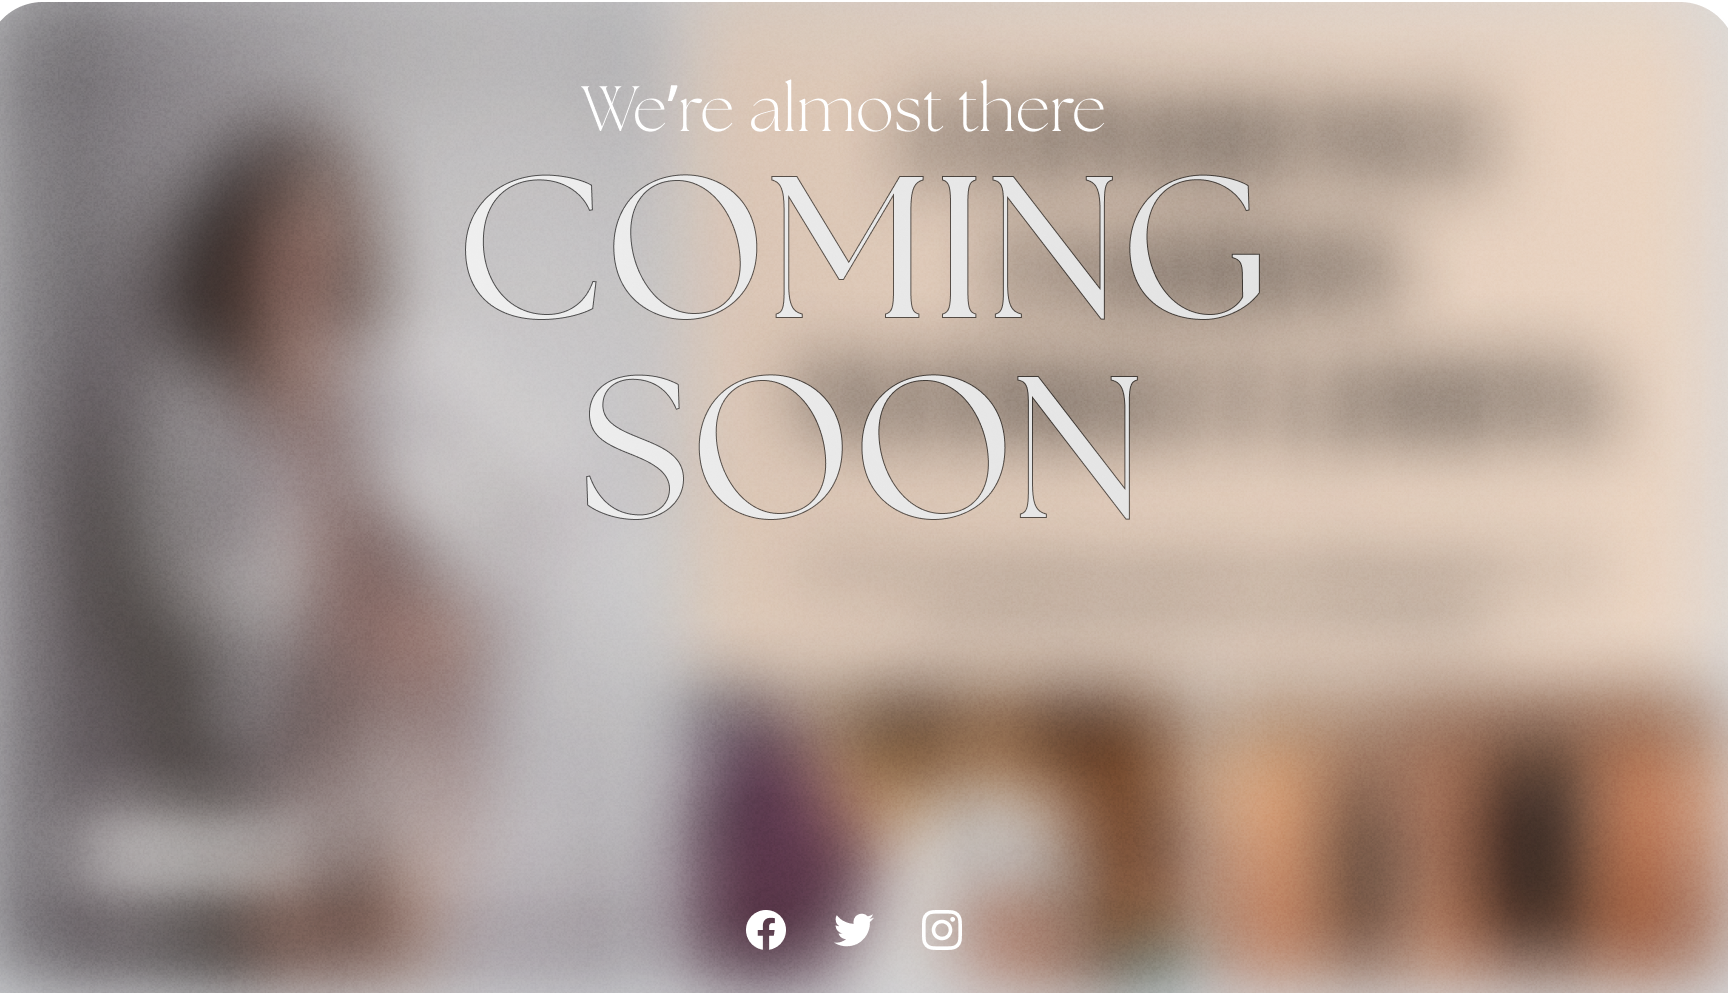
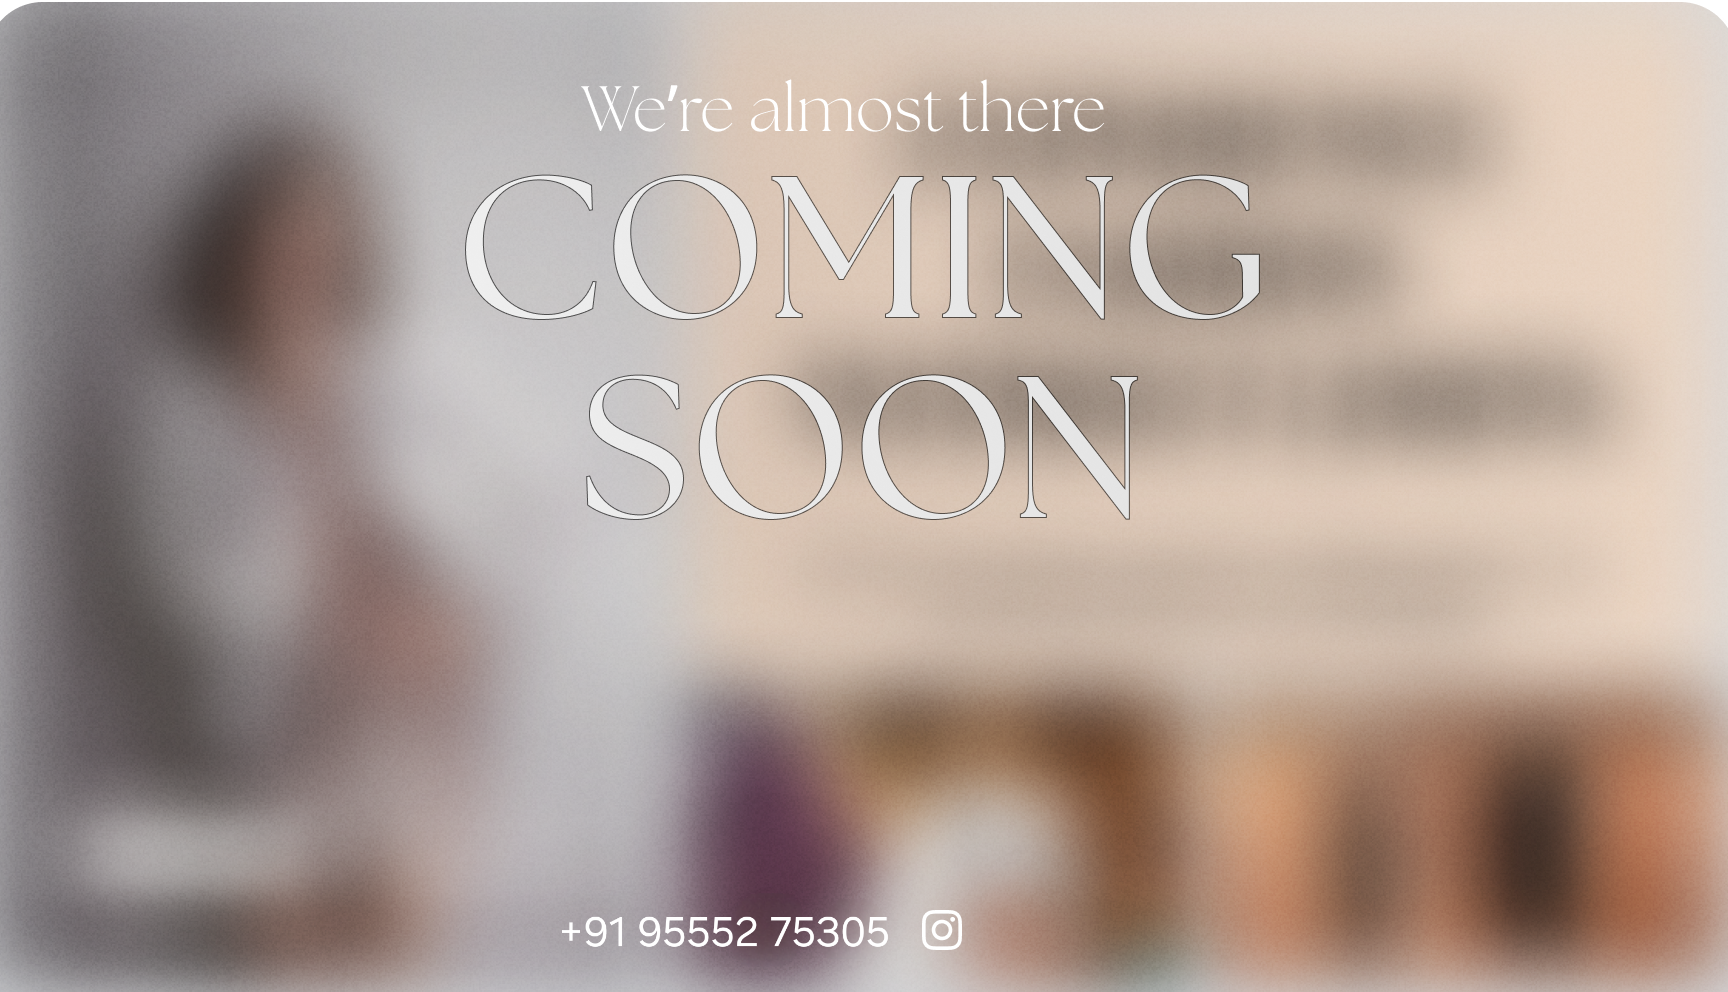
instagram redirect and phone number

diff --git a/src/LandingPage/ComingSoonLandingPage.jsx b/src/LandingPage/ComingSoonLandingPage.jsx
@@ -9,9 +9,9 @@ export const ComingSoonLandingPage = () => {
         <Navbar />
       </div>
 
-      <div className="coming-soon">
+      <a href="https://www.instagram.com/_thewalk.incloset/" className="coming-soon">
         <img src={ComingSoonBlur} alt="Coming Soon" />
-      </div>
+      </a>
     </>
   )
 }
